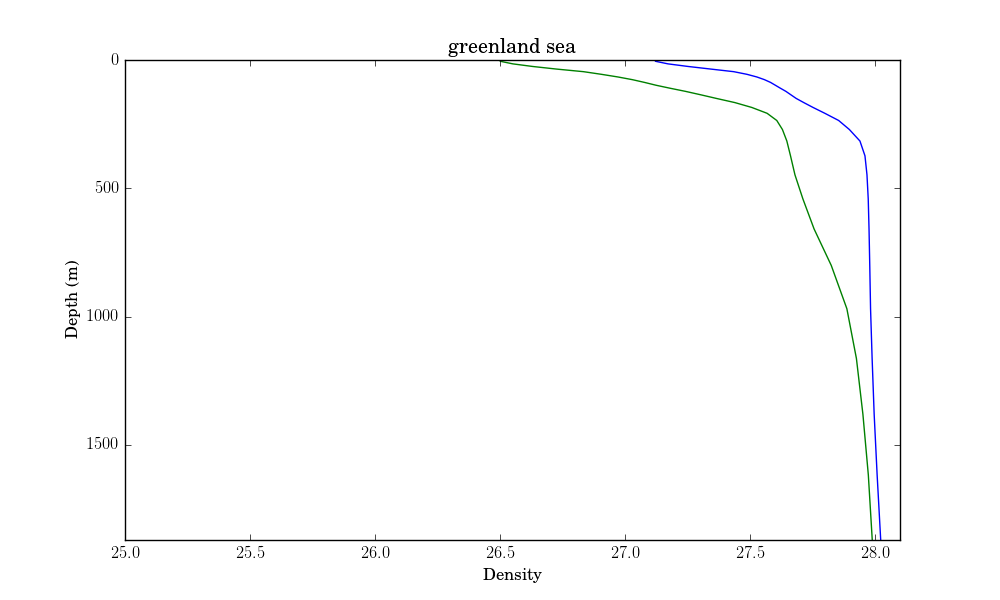
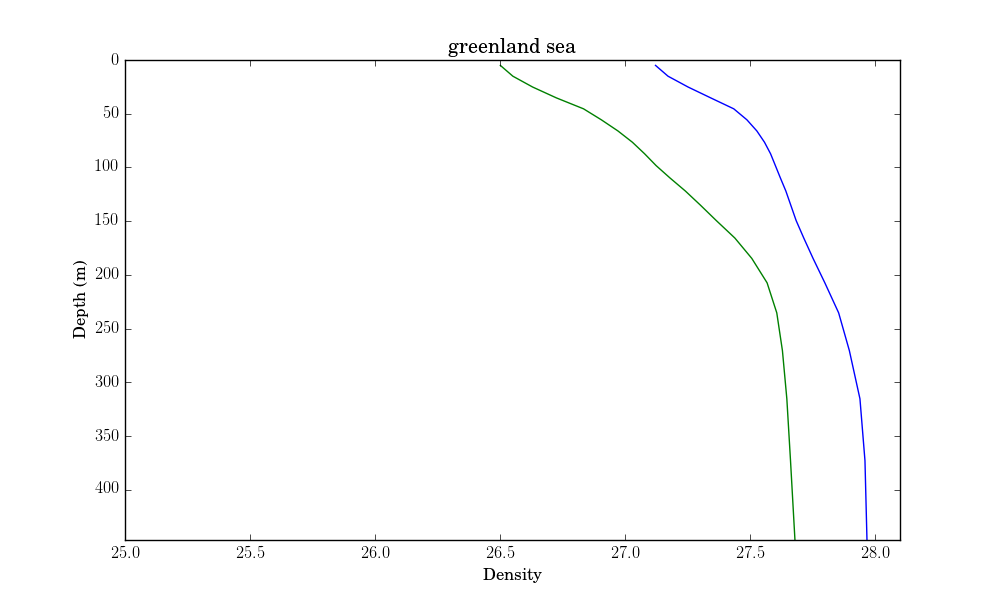
densities with standard deviation

diff --git a/Sept_Ice/sig0.py b/Sept_Ice/sig0.py
@@ -31,15 +31,15 @@ import loading
 #        when the script does not find the MLD, it is set to zero.
  
 # WHAT THE USER CAN CHANGE:--------
-option = 'Uncoupled'			# Coupled or Uncoupled
-y1 = 2000				# a year between 1950 and 2100
+option = 'Coupled'			# Coupled or Uncoupled
+y1 = 2090				# a year between 1950 and 2100
 y2 = 2100
 var = 'density'
 month = 'Sept'				# Sept or April
 
 comparison = 'no'
 
-basin ='arctic_ocean'          # arctic_ocean, BS_and_KS, greenland_sea, undefined
+basin ='greenland_sea'          # arctic_ocean, BS_and_KS, greenland_sea, undefined
 lat_min = 66.34                 #IF basin = 'undefined'
                                 #ex: 66.34 for polar circle
 
@@ -49,7 +49,7 @@ lat_min = 66.34                 #IF basin = 'undefined'
 class yearly_LongPeriod():                                                               #//
                                                                                         #//
   #_____________________________________                                                #//
-  def __init__(self, option, var,y1,basin,lat_min,month):                                                      #//
+  def __init__(self, option, var,y1,y2,basin,lat_min,month):                                                      #//
       self.first_year = 1950                                                            #//
       self.last_year = 2100
       self.path = '/media/fig010/LACIE SHARE/EC_Earth/EC_data/sig0_'\
@@ -60,6 +60,7 @@ class yearly_LongPeriod():                                                      
         sufix = str(basin)+'_'+str(option)
 
       self.y1 = y1
+      self.y2 = y2
       self.max_depth = 500                                                             #//
       if var == 'temp':                                                                 #//
         self.vmin = -5                                                                  #//
@@ -71,6 +72,7 @@ class yearly_LongPeriod():                                                      
         self.vmin = 25
         self.vmax = 28.1
       self.output_file =  str(var)+'_'+str(month)+str(self.y1)+'_'+str(sufix)
+      self.output_file2 =  str(var)+'_'+str(month)+str(self.y1)+'_'+str(self.y2)+'_'+str(sufix)
                                                                                         #//
       return                                                                            #//
                                                                                         #//
@@ -78,8 +80,7 @@ class yearly_LongPeriod():                                                      
 
 
 
-if comparison == 'no':
-   simu = yearly_LongPeriod(option,var,y1,basin,lat_min,month)
+simu = yearly_LongPeriod(option,var,y1,y2,basin,lat_min,month)
 
 yr, xr, time, depth = loading.extracting_coord(simu.path)
 
@@ -98,11 +99,19 @@ else:
 
 VarArray_simuRho[np.where(VarArray_simuRho==0)] = np.nan
 region = VarArray_simuRho[mask,:,:]
-print(np.shape(region))
 mean_region = np.nanmean(region,axis=0)
 
 
-make_plot.vertical_profile(mean_region[:,index_y1],mean_region[:,index_y2],y1,y2,var,simu.vmin,simu.vmax,depth,simu.max_depth,basin,lat_min,simu.output_file)
+#make_plot.vertical_profile(mean_region[:,index_y1],mean_region[:,index_y2],y1,y2,var,simu.vmin,simu.vmax,depth,simu.max_depth,basin,lat_min,simu.output_file)
+mean_region_pro = mean_region[:,index_y1:index_y2+1]
 
+MEAN = np.zeros_like((mean_region_pro[:,0]))
+MEAN2 = np.zeros_like((mean_region_pro[:,0]))
+sig = np.zeros_like(mean_region_pro[:,0])
 
+MEAN = np.nanmean(mean_region_pro,axis=1)
+MEAN2 = np.nanmean(mean_region_pro**2,axis=1)
+#for i in range(0,np.size(MEAN2[0,:])):
+sig = np.sqrt(MEAN2-MEAN**2)
 
+make_plot.vertical_profile3(MEAN,MEAN-sig,MEAN+sig,y1,y2,var,simu.vmin,simu.vmax,depth,simu.max_depth,basin,lat_min,simu.output_file2)

diff --git a/EC_start/sig0.py b/EC_start/sig0.py
@@ -38,7 +38,7 @@ var = 'density'
 
 comparison = 'no'
 
-basin ='arctic_ocean'          # arctic_ocean, BS_and_KS, greenland_sea, undefined
+basin ='greenland_sea'          # arctic_ocean, BS_and_KS, greenland_sea, undefined
 lat_min = 66.34                 #IF basin = 'undefined'
                                 #ex: 66.34 for polar circle
 
@@ -48,7 +48,7 @@ lat_min = 66.34                 #IF basin = 'undefined'
 class yearly_LongPeriod():                                                               #//
                                                                                         #//
   #_____________________________________                                                #//
-  def __init__(self, option, var,y1,basin,lat_min):                                                      #//
+  def __init__(self, option, var,y1,y2,basin,lat_min):                                                      #//
       self.first_year = 1950                                                            #//
       self.last_year = 2100
       self.path = '/media/fig010/LACIE SHARE/EC_Earth/EC_data/sig0_'\
@@ -59,6 +59,7 @@ class yearly_LongPeriod():                                                      
         sufix = str(basin)+'_'+str(option)
 
       self.y1 = y1
+      self.y2 = y2
       self.max_depth = 500                                                             #//
       if var == 'temp':                                                                 #//
         self.vmin = -5                                                                  #//
@@ -70,6 +71,7 @@ class yearly_LongPeriod():                                                      
         self.vmin = 25
         self.vmax = 28.1
       self.output_file =  str(var)+'_yearmean'+str(self.y1)+'_'+str(sufix)
+      self.output_file2 =  str(var)+'_'+str(self.y1)+'_'+str(self.y2)+'mean_'+str(sufix)
                                                                                         #//
       return                                                                            #//
                                                                                         #//
@@ -77,11 +79,7 @@ class yearly_LongPeriod():                                                      
 
 
 
-if comparison == 'no':
-   simu = yearly_LongPeriod(option,var,y1,basin,lat_min)
-#elif comparison == 'yes':
-#   simu = yearlyAnomaly_LongPeriod(option,var)
-#   VarArray_ref = loading.extracting_var(simu.path_ref, var)
+simu = yearly_LongPeriod(option,var,y1,y2,basin,lat_min)
 
 yr, xr, time, depth = loading.extracting_coord(simu.path)
 
@@ -106,5 +104,15 @@ mean_region = np.nanmean(region,axis=0)
 
 make_plot.vertical_profile(mean_region[:,index_y1],mean_region[:,index_y2],var,simu.vmin,simu.vmax,depth,simu.max_depth,basin,lat_min,simu.output_file)
 
+MEAN = np.zeros_like((mean_region[:,0]))
+MEAN2 = np.zeros_like((mean_region[:,0]))
+sig = np.zeros_like(mean_region[:,0])
 
+MEAN = np.nanmean(mean_region,axis=1)
+MEAN2 = np.nanmean(mean_region**2,axis=1)
+#for i in range(0,np.size(MEAN2[0,:])):
+sig = np.sqrt(MEAN2-MEAN**2)
+
+make_plot.vertical_profile3(MEAN,MEAN-sig,MEAN+sig,y1,y2,var,simu.vmin,simu.vmax,depth,simu.max_depth,basin,lat_min,simu.output_file2)
+                                                                                                                                       
 

diff --git a/Sept_Ice/make_plot.py b/Sept_Ice/make_plot.py
@@ -14,7 +14,7 @@ from scipy.interpolate import Rbf
 import os
 import sys
 import numpy as np
-
+from matplotlib import patches
 
 def Forder(var):
    return np.asfortranarray(var.T,dtype=np.float64)
@@ -159,6 +159,40 @@ def vertical_profile(var1,var2,y1,y2,variable_name,vmin,vmax,z,zmax,ocean,lat_mi
    h, l = ax.get_legend_handles_labels()
    ax.legend(h, l,  bbox_to_anchor=(-.5,-.05, 2,-0.15), loc=9,
            ncol=1)
+   plt.savefig(str(variable_name)+'/'+str(name_file.replace(".",""))+'.png')
+   plt.close(fig)
+   return
+
+def vertical_profile3(var1,var2,var3,y1,y2,variable_name,vmin,vmax,z,zmax,ocean,lat_min,name_file):
+
+   i_zmax = np.max(np.where(z<zmax))
+   plt.figure(figsize=(7,15))
+   fig,ax = plt.subplots()
+   plt.rc('text', usetex=True)
+   plt.rc('font', family='serif')
+   ax.plot(var1[0:i_zmax+1],z[0:i_zmax+1],label=str(y1))
+   ax.plot(var2[0:i_zmax+1],z[0:i_zmax+1],color='grey')
+   ax.plot(var3[0:i_zmax+1],z[0:i_zmax+1],color='grey')
+   '''
+   ax.fill_between(z[0:i_zmax+1],var3[0:i_zmax+1], var2[0:i_zmax+1], color = 'lightgrey',label = 'standard error')
+   lineA,=ax.plot(var1[0:i_zmax+1],z[0:i_zmax+1],linewidth=2.5, color='darkslategray',label=str(lat_min))
+   blue_patch = patches.Patch(color='lightgrey', label='standard error')
+   ax.legend(handles = [lineA, blue_patch], \
+          prop={'size':11},bbox_to_anchor=(1.1, 1.05))
+   '''
+   plt.gca().invert_yaxis()
+   plt.ylabel(r'Depth (m)')
+   if variable_name == 'temp':
+     plt.xlabel(r'Temperature ($^{o}$C)')
+   elif variable_name == 'density':
+     plt.xlabel(r'Density')
+   plt.xlim([vmin,vmax])
+   plt.ylim([z[i_zmax],0])
+   plt.title(str(ocean.replace("_"," ")))
+   if ocean == 'undefined':
+      plt.title('Arctic mediterranean seas ($>$'+str(lat_min)+'$^{o}$N)')
+   else:
+      plt.title(str(ocean.replace("_"," ")))
    plt.savefig(str(variable_name)+'/'+str(name_file.replace(".",""))+'.png')
    plt.close(fig)
    return

diff --git a/EC_start/make_plot.py b/EC_start/make_plot.py
@@ -111,6 +111,40 @@ def vertical_profile(var1,var2,variable_name,vmin,vmax,z,zmax,ocean,lat_min,name
    plt.close(fig)
    return
 
+def vertical_profile3(var1,var2,var3,y1,y2,variable_name,vmin,vmax,z,zmax,ocean,lat_min,name_file):
+
+   i_zmax = np.max(np.where(z<zmax))
+   plt.figure(figsize=(7,15))
+   fig,ax = plt.subplots()
+   plt.rc('text', usetex=True)
+   plt.rc('font', family='serif')
+   ax.plot(var1[0:i_zmax+1],z[0:i_zmax+1],label=str(y1))
+   ax.plot(var2[0:i_zmax+1],z[0:i_zmax+1],color='grey')
+   ax.plot(var3[0:i_zmax+1],z[0:i_zmax+1],color='grey')
+   '''
+   ax.fill_between(z[0:i_zmax+1],var3[0:i_zmax+1], var2[0:i_zmax+1], color = 'lightgrey',label = 'standard error')
+   lineA,=ax.plot(var1[0:i_zmax+1],z[0:i_zmax+1],linewidth=2.5, color='darkslategray',label=str(lat_min))
+   blue_patch = patches.Patch(color='lightgrey', label='standard error')
+   ax.legend(handles = [lineA, blue_patch], \
+          prop={'size':11},bbox_to_anchor=(1.1, 1.05))
+   '''
+   plt.gca().invert_yaxis()
+   plt.ylabel(r'Depth (m)')
+   if variable_name == 'temp':
+     plt.xlabel(r'Temperature ($^{o}$C)')
+   elif variable_name == 'density':
+     plt.xlabel(r'Density')
+   plt.xlim([vmin,vmax])
+   plt.ylim([z[i_zmax],0])
+   plt.title(str(ocean.replace("_"," ")))
+   if ocean == 'undefined':
+      plt.title('Arctic mediterranean seas ($>$'+str(lat_min)+'$^{o}$N)')
+   else:
+      plt.title(str(ocean.replace("_"," ")))
+   plt.savefig(str(variable_name)+'/'+str(name_file.replace(".",""))+'.png')
+   plt.close(fig)
+   return
+
 
 
 def time_serie(var,variable_name,t,ML,z,zmax,year,option,vmin,vmax,ocean):

diff --git a/Forcings/time_serie_FWFice.py b/Forcings/time_serie_FWFice.py
@@ -17,12 +17,12 @@ import gsw
 import loading
 
 
-var = 'MeltedIce'
+var = 'runoff'
 option = 'Uncoupled'		# Coupled, Uncoupled
 y1 = 1950
 y2 = 2100
 month = 'april'                  #Sept or April
-basin ='arctic_ocean'		# arctic_ocean, BS_and_KS, undefined
+basin ='undefined'		# arctic_ocean, BS_and_KS, undefined
 lat_min = 66.34 		#IF basin = 'undefined'
                                 #ex: 66.34 for polar circle
 
@@ -118,7 +118,7 @@ def var_fc_time_2(var,var2,variable_name,t,first_year_file,lat_min,name_outfile,
 
   plt.xlabel('time',fontsize=18)
   if ocean == 'undefined':
-      plt.title('Mean Arctic ($>$'+str(lat_min)+'$^{o}$N)')
+      plt.title('Arctic Mediterranean ($>$'+str(lat_min)+'$^{o}$N)')
   else:
       plt.title(str(ocean.replace("_"," ")))
 

diff --git a/Sept_Ice/density.py b/Sept_Ice/density.py
@@ -35,7 +35,7 @@ import loading
 option = 'Coupled'			# Coupled or Uncoupled
 year = 2100				# a year between 1950 and 2100
 comparison = 'no'
-month = 'Sept'                          # Sept or april
+month = 'March'                          # Sept or april
 #----------------------------------
 
 #//////////////////////////////////////////////////////////////////////////////////////////

diff --git a/Forcings/make_plot.py b/Forcings/make_plot.py
@@ -153,7 +153,7 @@ def time_serie(var,variable_name,t,z,zmax,year,option,vmin,vmax,ocean):
     cbar.set_label(r'Salinity (PSU)',fontsize=18)
 
    if ocean == 'undefined':
-      plt.title('Mean Arctic ($>$66.34$^{o}$N)')
+      plt.title('Arctic Mediterranean ($>$66.34$^{o}$N)')
    else:
       plt.title(str(ocean.replace("_"," ")),size=20)
 

diff --git a/Forcings/basic_map.py b/Forcings/basic_map.py
@@ -19,7 +19,7 @@ import loading
 var = 'runoff'		#sal, runoff, albedo, downHF
 option = 'Uncoupled'
 specificity = ''
-y1 = 2090
+y1 = 2000
 y2 = 2100
 control = 'Uncoupled'   # Uncoupled or historic
 
